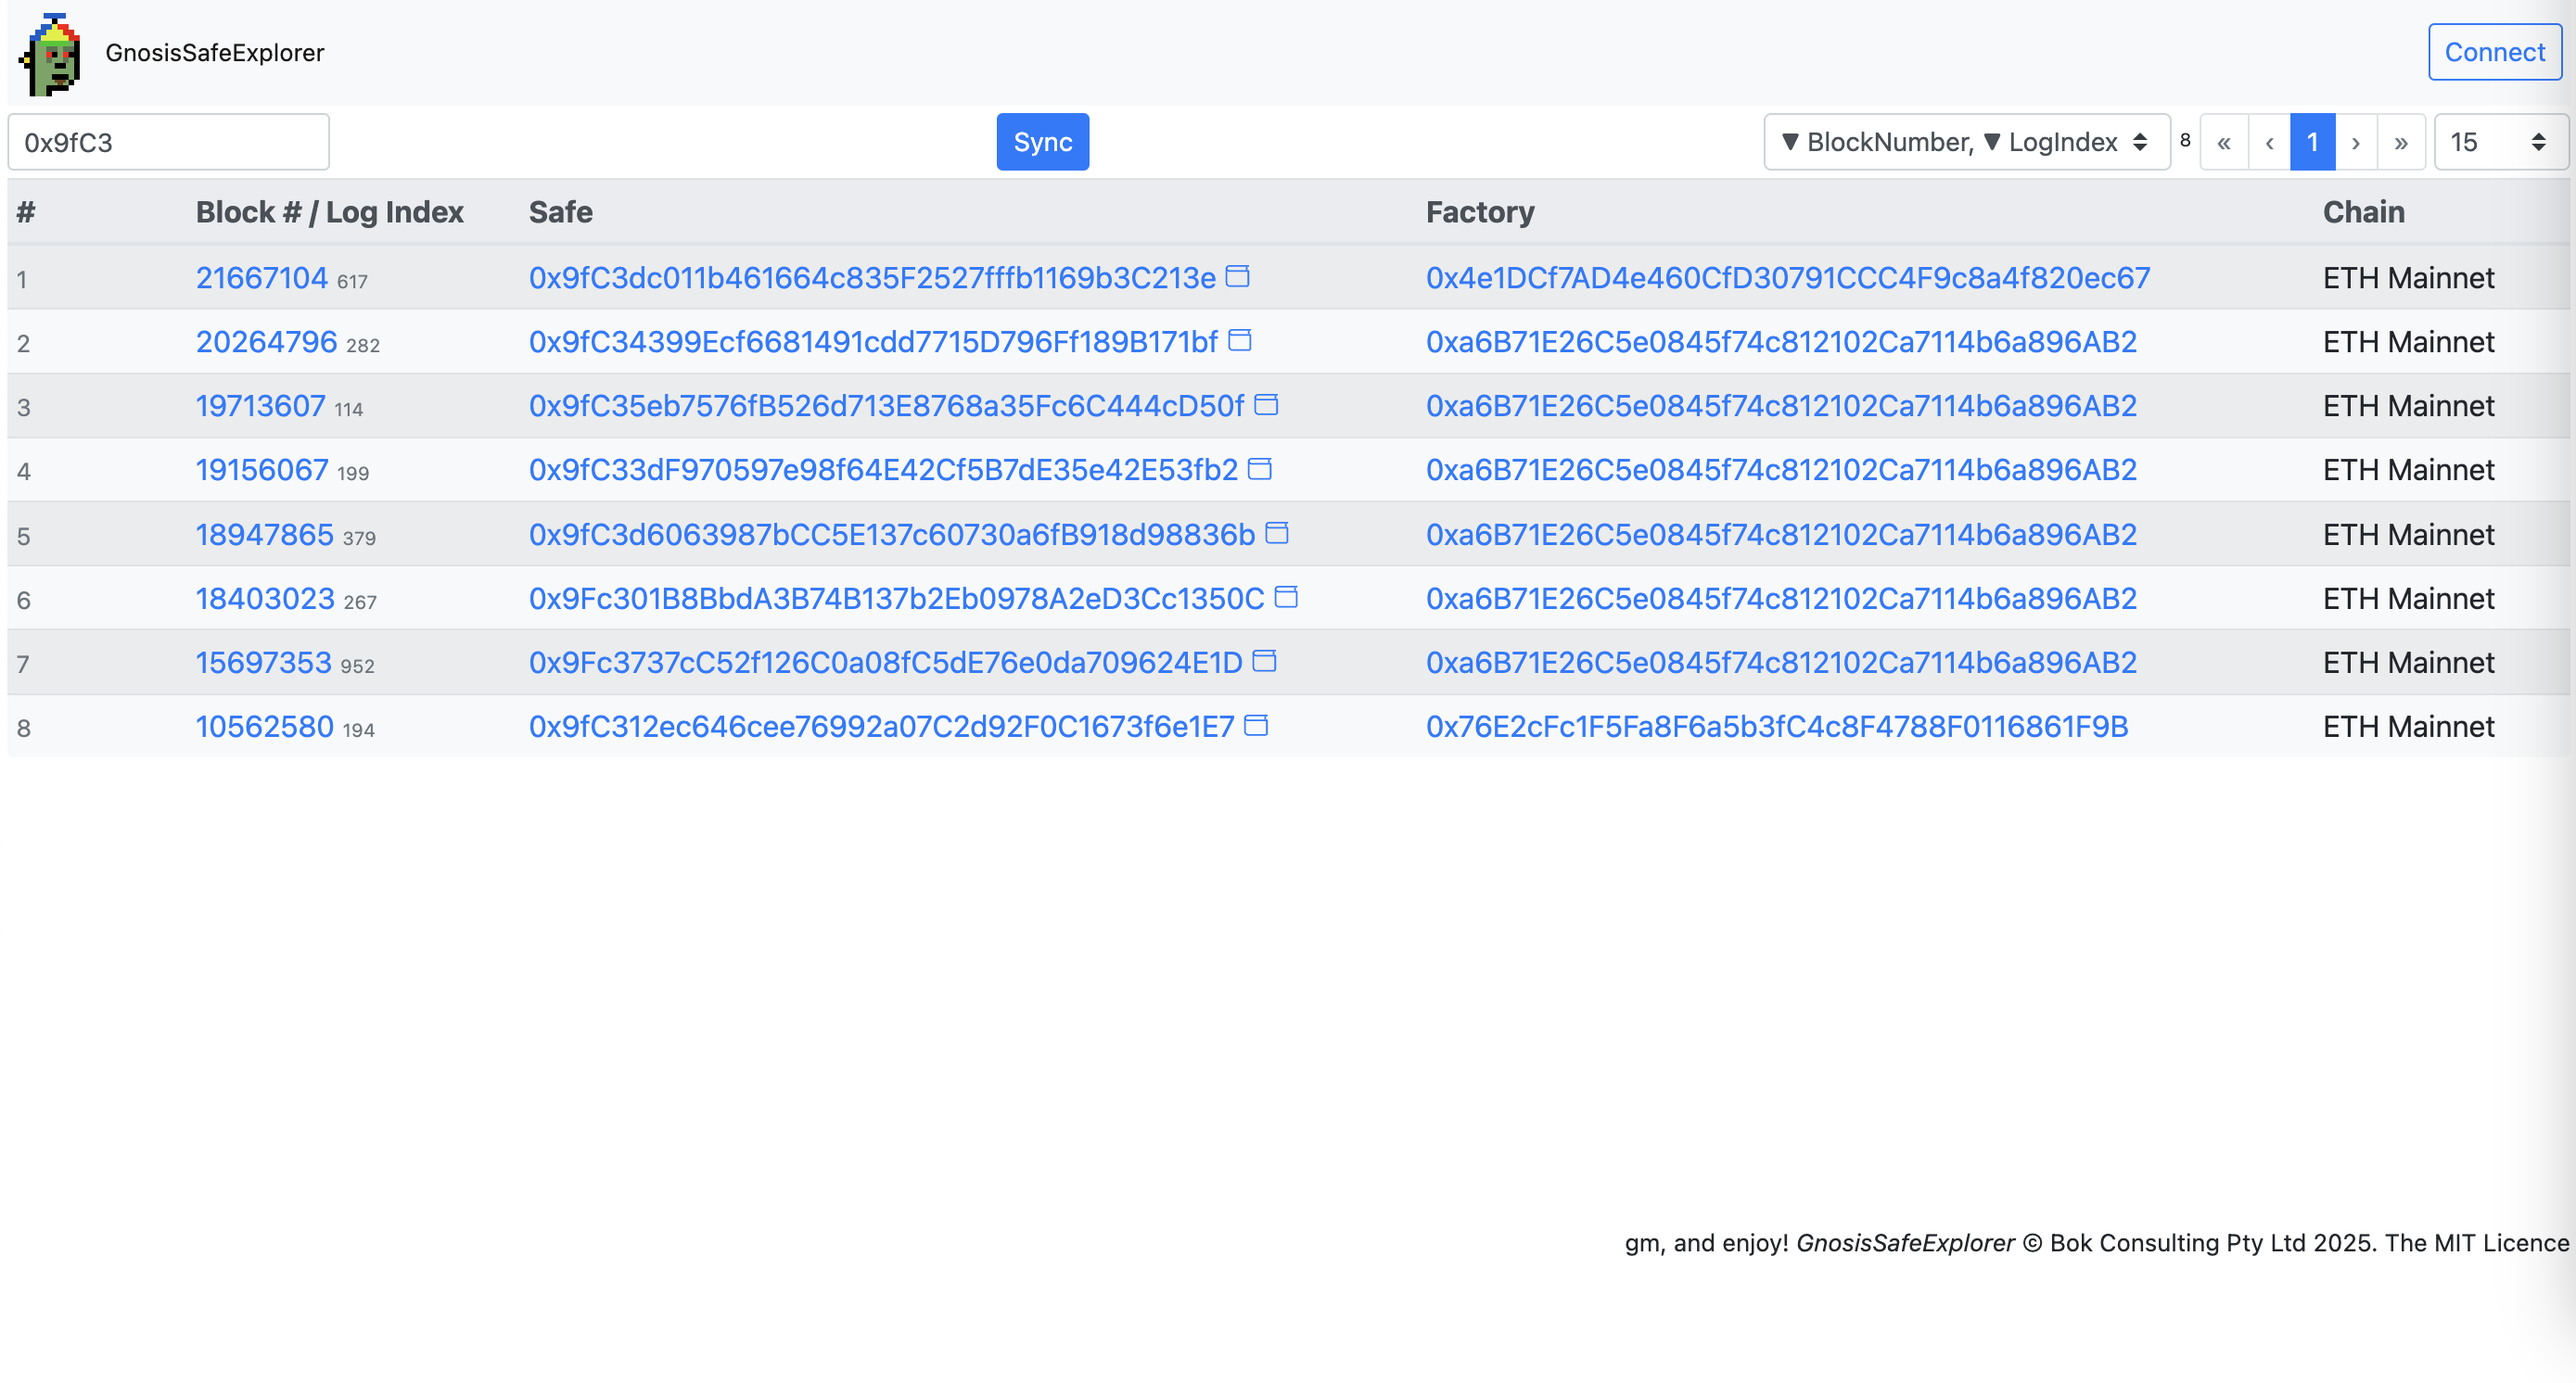
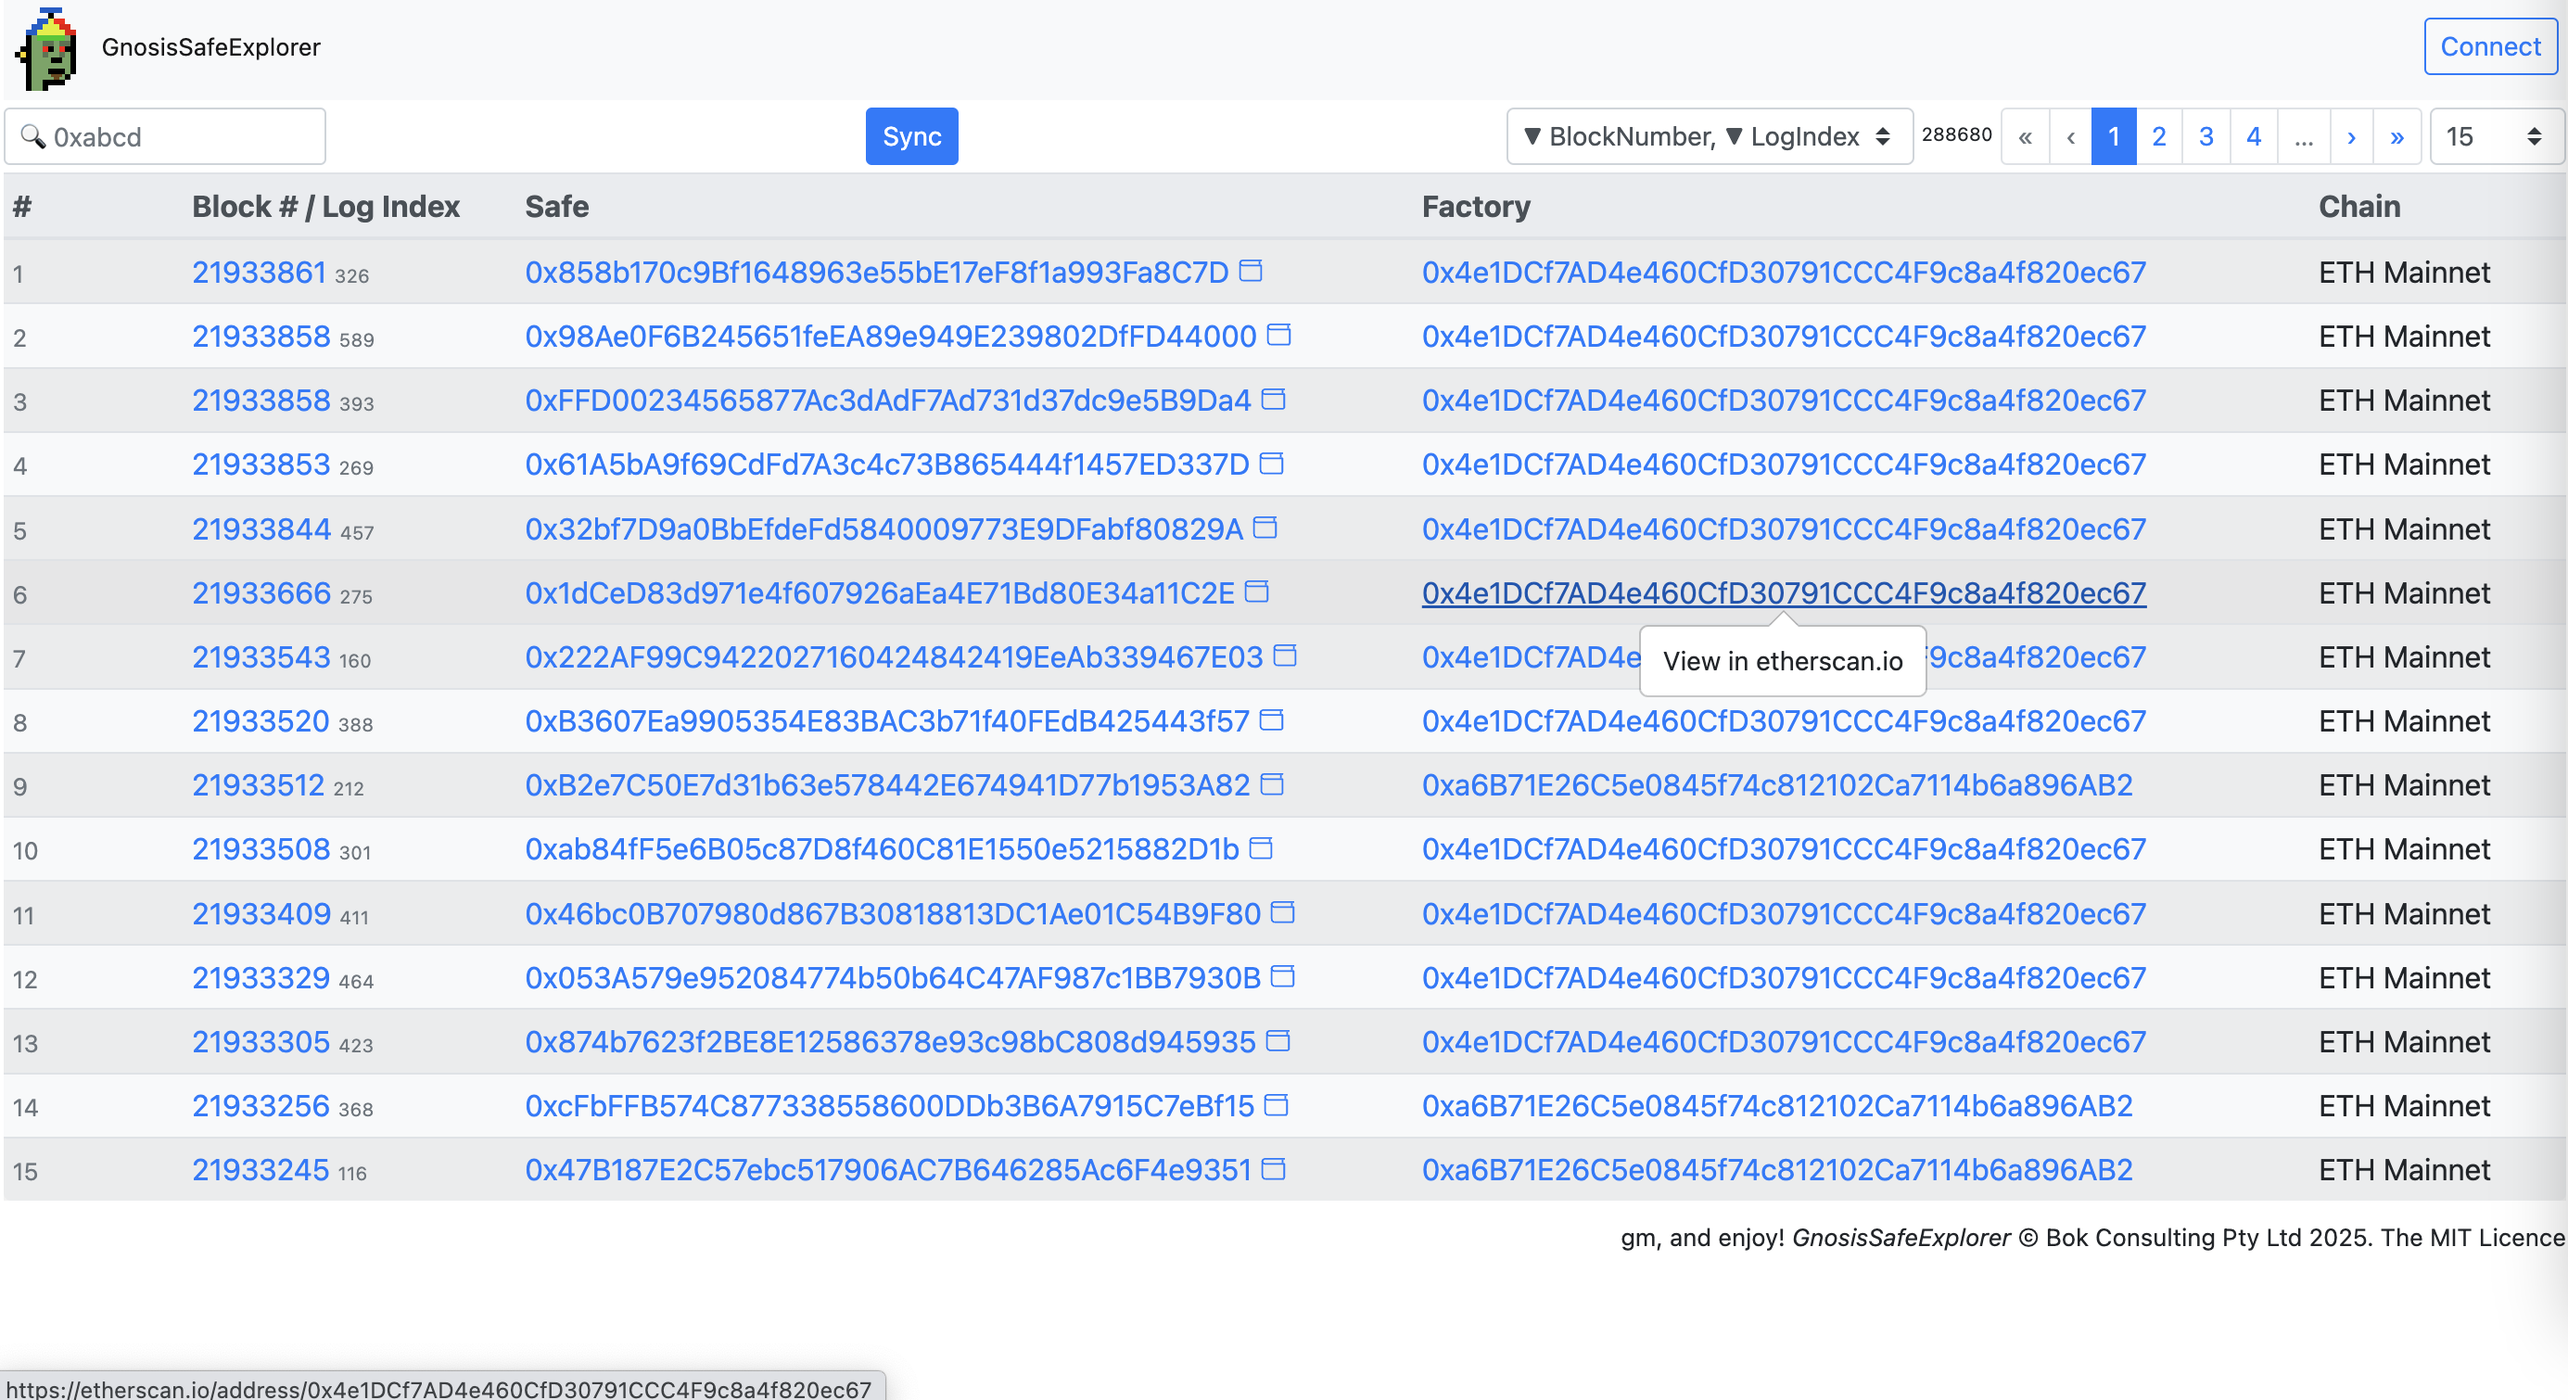
screenshots

diff --git a/docs/index.html b/docs/index.html
@@ -317,6 +317,20 @@
         // --- COMPUTED ---
         computed: {
 
+          factories() {
+            const result = {};
+            for (const [version, versionData] of Object.entries(ADDRESSES)) {
+              for (const [chainId, chainData] of Object.entries(versionData)) {
+                for (const [contractName, address] of Object.entries(chainData)) {
+                  if (contractName == "proxy_factory" || contractName == "safe_proxy_factory") {
+                    result[address] = version;
+                  }
+                }
+              }
+            }
+            return result;
+          },
+
           allSafes() {
             // console.log(moment().format("HH:mm:ss") + " allSafes");
             const results = [];
@@ -590,19 +604,11 @@
               addressToIndex[factoryAddress] = indexToAddress.length;
               indexToAddress.push(factoryAddress);
             }
-            const factoryAddresses = {};
-            for (const [version, versionData] of Object.entries(ADDRESSES)) {
-              for (const [chainId, chainData] of Object.entries(versionData)) {
-                for (const [contractName, address] of Object.entries(chainData)) {
-                  if (contractName == "proxy_factory" || contractName == "safe_proxy_factory") {
-                    console.log(version + "/" + chainId + "/" + contractName + " => " + JSON.stringify(address));
-                    factoryAddresses[address] = "Safe Factory v" + version;
-                    if (!(address in addressToIndex)) {
-                      addressToIndex[address] = indexToAddress.length;
-                      indexToAddress.push(address);
-                    }
-                  }
-                }
+            const factoryAddresses = this.factories;
+            for (const factoryAddress in factoryAddresses) {
+              if (!(factoryAddress in addressToIndex)) {
+                addressToIndex[factoryAddress] = indexToAddress.length;
+                indexToAddress.push(factoryAddress);
               }
             }
             console.log(moment().format("HH:mm:ss") + " retrieveSafeFactoryEvents - factoryAddresses: " + JSON.stringify(factoryAddresses));

diff --git a/README.md b/README.md
@@ -24,13 +24,17 @@ Web3 dapp: https://bokkypoobah.github.io/GnosisSafeExplorer/ (WIP)
 
 ### Sample Screens
 
-288,675 v1.1.1, v1.3.0 and v1.4.1 Gnosis Safes have been deployed at this time.
+Syncing
 
 <kbd><img src="images/SampleScreen01.png" width="800" /></kbd>
 
-Search filter
+288,680 v1.1.1, v1.3.0 and v1.4.1 Gnosis Safes have been deployed at this time. Syncing takes ~ 3 minutes
 
 <kbd><img src="images/SampleScreen02.png" width="800" /></kbd>
+
+Search by Safe address
+
+<kbd><img src="images/SampleScreen03.png" width="800" /></kbd>
 
 
 <br />
